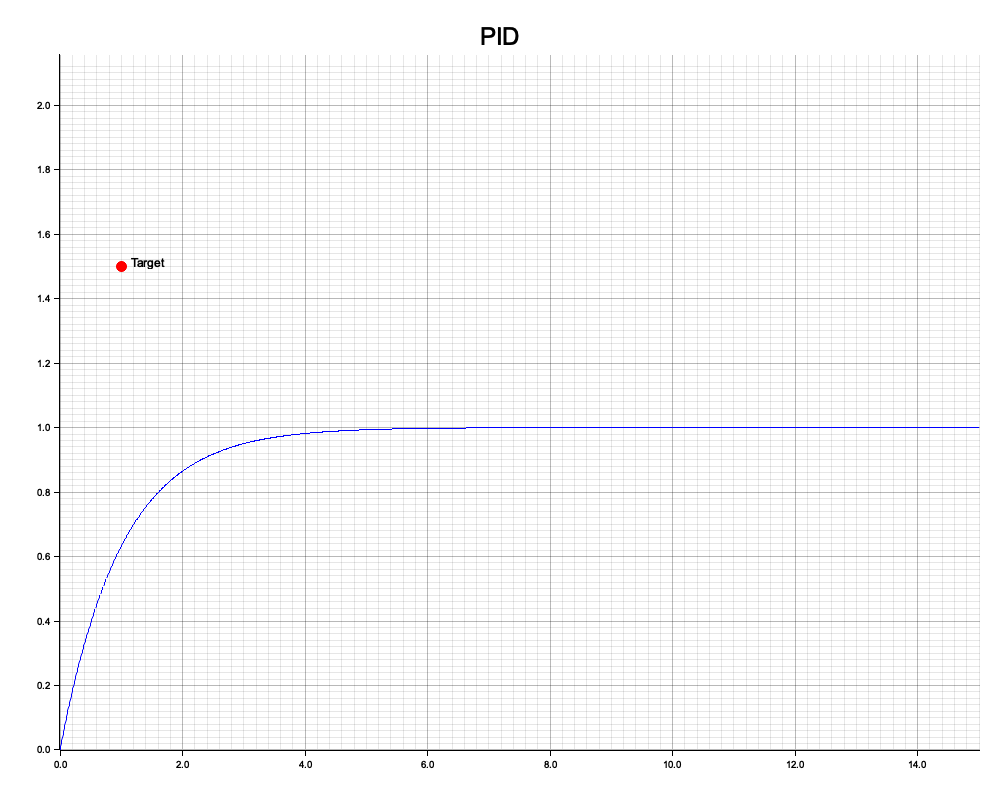
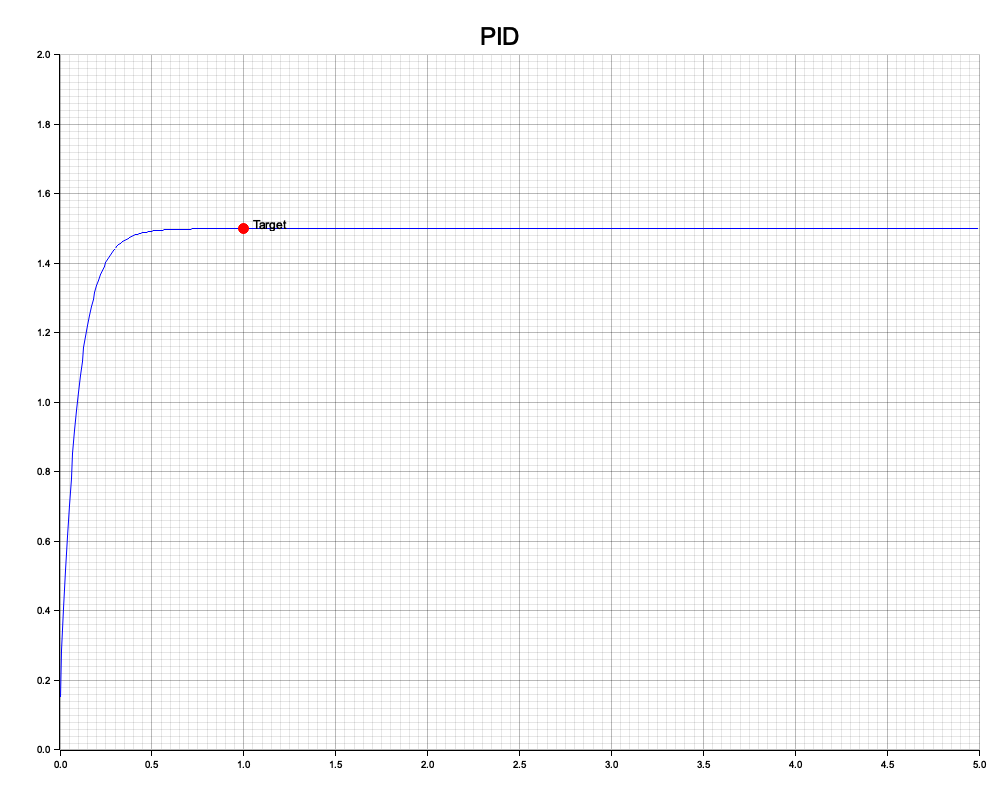
plot the real data

Changed region(s): [[0.031, 0.0625, 0.992, 0.9688]]

diff --git a/src/main.rs b/src/main.rs
@@ -9,12 +9,12 @@ use crate::visualizer::VisualizerConfig;
 
 fn main() -> anyhow::Result<()> {
     let input = Input::set(1.5, 1.0);//ingest();
-    let mut pid = PID::new(25.0, 0.0, 0.8);//ingest();
+    let mut pid = PID::new(10.0, 0.0, 0.0);//ingest();
 
     // TODO: try different init setup, investigate, make configurable
     let mut measurement = 0.0; // Initial value
     let dt = 0.01; // Time step
-    let sim_time = 15.0; // Total simulation time
+    let sim_time = 5.0; // Total simulation time
 
     let mut plot_data = vec![];
 
@@ -24,9 +24,11 @@ fn main() -> anyhow::Result<()> {
 
         // TODO: replace with inertia, mass-damping and noise modelling
         measurement += control * dt;
-        // println!("{}", measurement);
+
         plot_data.push((step as f64 * dt, measurement));
     }
+
+    println!("{:#?}", plot_data.iter().map(|(t, v)| v.to_string()).collect::<Vec<_>>().join(", "));
 
     // Visualize the result
     let v = Visualizer::new(VisualizerConfig::new("PID".to_string(), "pid_response.png".to_string(), 1000, 800));

diff --git a/src/visualizer.rs b/src/visualizer.rs
@@ -40,13 +40,7 @@ impl Visualizer {
 
         chart.configure_mesh().draw()?;
 
-        // Your main line series
-        let data = (0..data.len()).map(|x| {
-            let x = x as f64 * 0.01;
-            (x, (1.0 - (-x).exp())) // example data
-        });
-
-        chart.draw_series(LineSeries::new(data, &BLUE))?;
+        chart.draw_series(LineSeries::new(data.iter().copied(), &BLUE))?;
 
         // Highlight a target value explicitly:
         let target_point = (target.acceptable_time, target.target_value);
